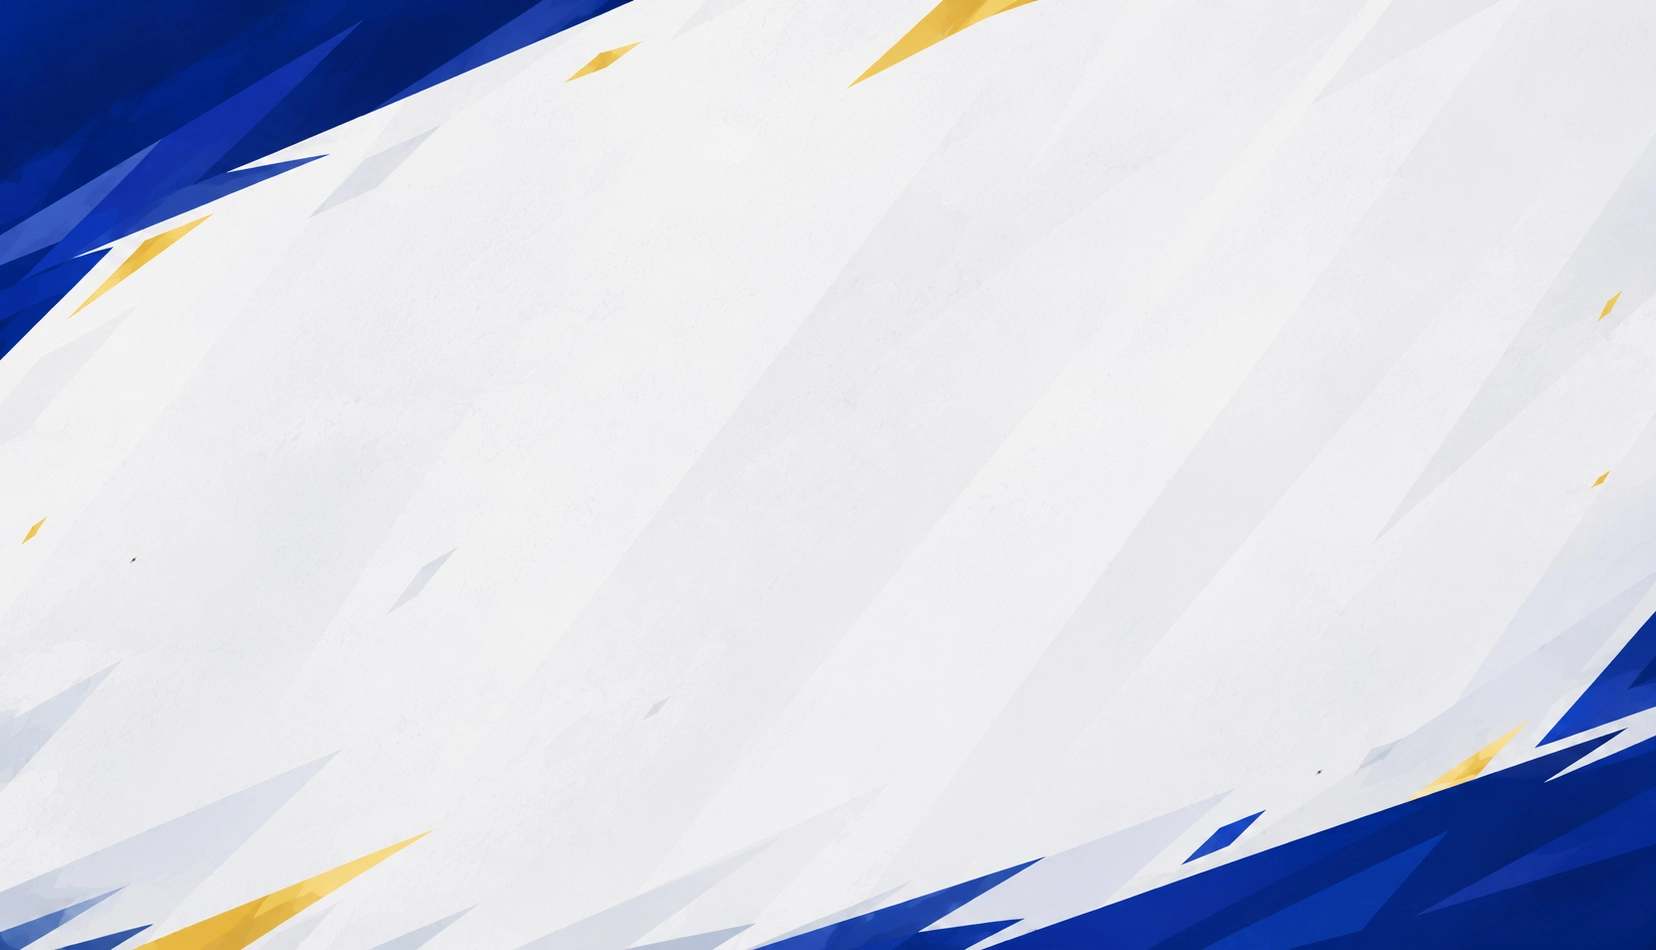
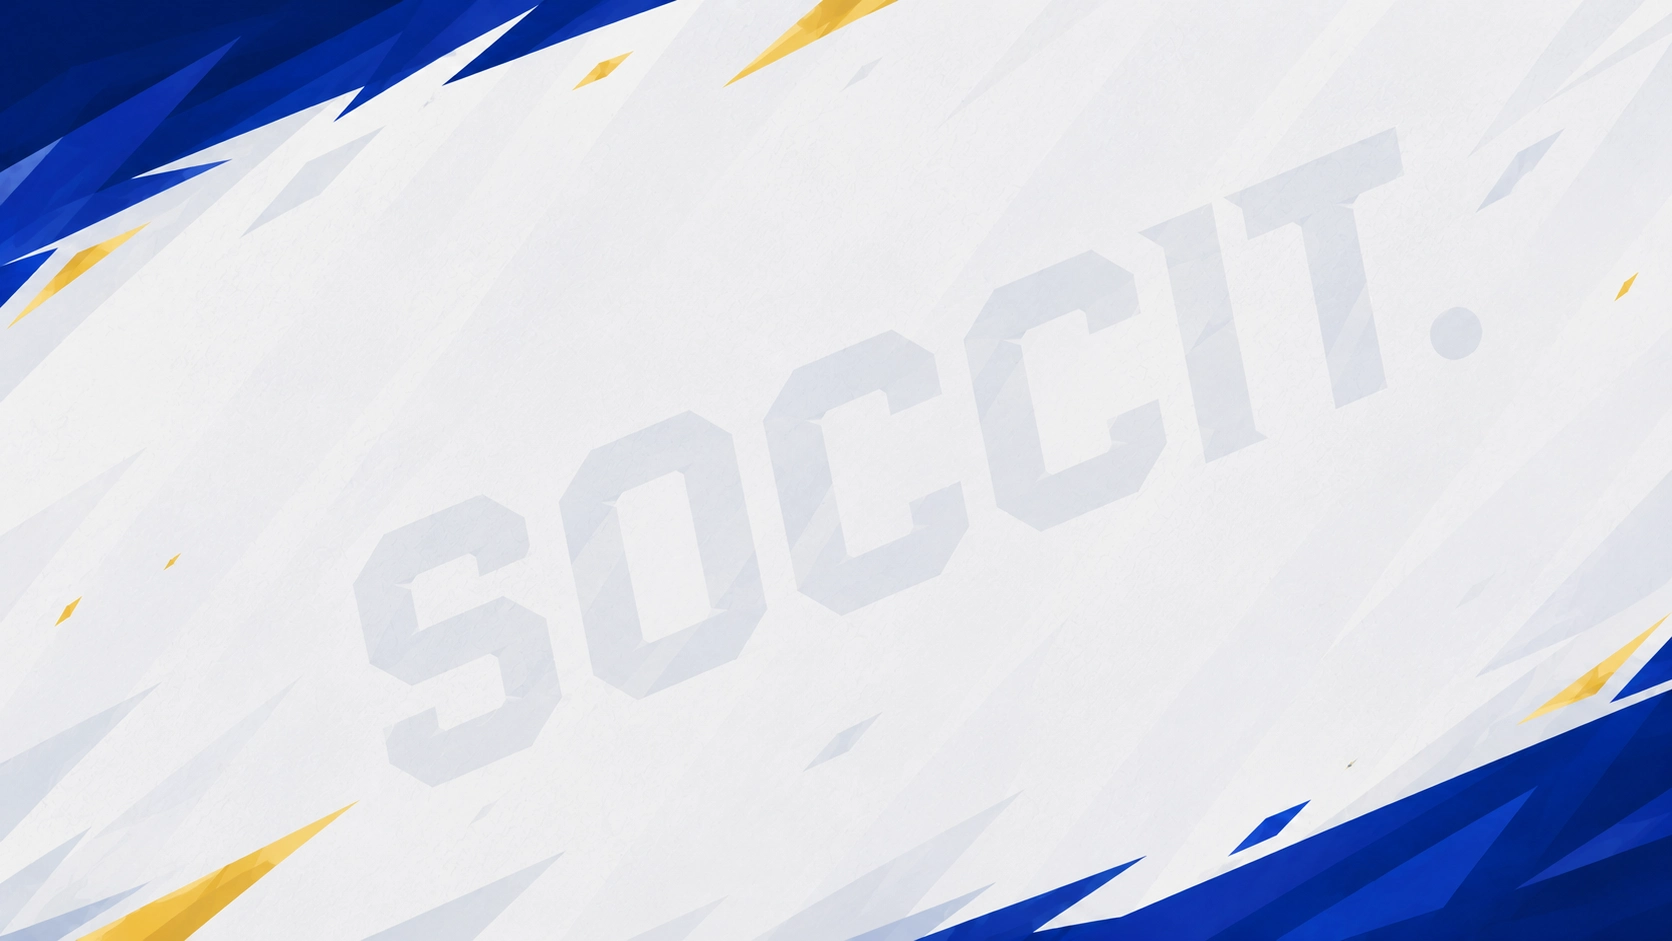
sounds

diff --git a/app/_lib/sound.ts b/app/_lib/sound.ts
@@ -1,0 +1,132 @@
+// Web Audio sound-effects manager.
+//
+// Uses predecoded AudioBuffers for zero-latency playback (no <audio> tag
+// seeking/glitches) and lazy-inits the AudioContext on the first user gesture
+// so it complies with browser autoplay policies.
+//
+// Sound files live at /public/sounds/<name>.wav. Replace the placeholder
+// silent files with real recordings — same path/filename, no code change.
+//
+// Recommended source format:
+//   WAV (PCM, 16-bit, 44.1 kHz, mono)
+//   - hover:  50–120 ms, soft attack, quick fade-out (no click/pop at edges)
+//   - click:  80–180 ms, punchy attack, short decay
+//   Keep peaks around -3 dBFS to avoid clipping when layered.
+//   WAV gives instant playback via decodeAudioData + AudioBufferSourceNode.
+//   MP3/OGG also work but add decode cost and tiny first-play latency.
+
+type SoundName = "hover" | "click";
+
+const HOVER_COOLDOWN_MS = 70; // global min gap between hover sounds
+const HOVER_ELEMENT_MS = 500; // don't replay on the same element within this window
+
+class SoundManager {
+  private ctx: AudioContext | null = null;
+  private buffers: Partial<Record<SoundName, AudioBuffer>> = {};
+  private loaded = false;
+  private loading: Promise<void> | null = null;
+  private muted = false;
+
+  private lastHoverEl: WeakRef<Element> | null = null;
+  private lastHoverAt = 0;
+
+  constructor() {
+    if (typeof window !== "undefined") {
+      this.muted =
+        window.localStorage.getItem("soccit-sound-muted") === "1";
+    }
+  }
+
+  /** Lazily create the AudioContext. Must be called from a user gesture. */
+  private ensureContext(): AudioContext | null {
+    if (this.ctx) return this.ctx;
+    if (typeof window === "undefined") return null;
+    const Ctx =
+      window.AudioContext ||
+      (window as unknown as { webkitAudioContext?: typeof AudioContext })
+        .webkitAudioContext;
+    if (!Ctx) return null;
+    this.ctx = new Ctx();
+    return this.ctx;
+  }
+
+  /** Initialise on first gesture. Safe to call repeatedly. */
+  initOnGesture(): Promise<void> {
+    const ctx = this.ensureContext();
+    if (!ctx) return Promise.resolve();
+    if (ctx.state === "suspended") void ctx.resume();
+    if (this.loaded) return Promise.resolve();
+    if (this.loading) return this.loading;
+    this.loading = Promise.all([
+      this.load("hover"),
+      this.load("click"),
+    ]).then(() => {
+      this.loaded = true;
+      this.loading = null;
+    });
+    return this.loading;
+  }
+
+  private async load(name: SoundName) {
+    if (this.buffers[name]) return;
+    const ctx = this.ctx;
+    if (!ctx) return;
+    try {
+      const res = await fetch(`/sounds/${name}.wav`, {
+        cache: "force-cache",
+      });
+      if (!res.ok) return;
+      const arr = await res.arrayBuffer();
+      // decodeAudioData resolves with the buffer in modern browsers.
+      const buf = await ctx.decodeAudioData(arr);
+      this.buffers[name] = buf ?? undefined;
+    } catch {
+      // Placeholder missing or decode failed — stay silent.
+    }
+  }
+
+  isMuted() {
+    return this.muted;
+  }
+
+  setMuted(m: boolean) {
+    this.muted = m;
+    if (typeof window !== "undefined") {
+      window.localStorage.setItem("soccit-sound-muted", m ? "1" : "0");
+    }
+  }
+
+  /** Hover sound with global + per-element throttling. */
+  playHover(el?: Element | null) {
+    if (this.muted) return;
+    const now =
+      typeof performance !== "undefined" ? performance.now() : Date.now();
+    if (now - this.lastHoverAt < HOVER_COOLDOWN_MS) return;
+    const sameEl = el && this.lastHoverEl?.deref?.() === el;
+    if (sameEl && now - this.lastHoverAt < HOVER_ELEMENT_MS) return;
+    this.lastHoverAt = now;
+    if (el) this.lastHoverEl = new WeakRef(el);
+    this.play("hover", 0.22);
+  }
+
+  /** Click/tap sound. */
+  playClick() {
+    if (this.muted) return;
+    this.play("click", 0.45);
+  }
+
+  private play(name: SoundName, volume: number) {
+    const ctx = this.ctx;
+    const buf = this.buffers[name];
+    if (!ctx || !buf) return;
+    if (ctx.state === "suspended") void ctx.resume();
+    const gain = ctx.createGain();
+    gain.gain.value = volume;
+    const src = ctx.createBufferSource();
+    src.buffer = buf;
+    src.connect(gain).connect(ctx.destination);
+    src.start();
+  }
+}
+
+export const sound = new SoundManager();

diff --git a/app/_lib/use-sound-effects.ts b/app/_lib/use-sound-effects.ts
@@ -1,0 +1,78 @@
+"use client";
+
+import { useEffect } from "react";
+import { sound } from "./sound";
+
+// Elements that count as "interactive" for sound purposes. Matches:
+//  - semantic: button, link, role=button, tabindex
+//  - opt-in:   [data-sound] (explicit)
+//  - visual:   .cursor-pointer, .group-card (cards/buttons with hover styles)
+const INTERACTIVE_SELECTOR =
+  "button, a, [role='button'], [tabindex]:not([tabindex='-1']), [data-sound], .cursor-pointer, .group-card";
+
+function findInteractive(target: EventTarget | null): Element | null {
+  if (!(target instanceof Element)) return null;
+  return target.closest(INTERACTIVE_SELECTOR);
+}
+
+function isDisabledEl(el: Element): boolean {
+  if (el.hasAttribute("disabled")) return true;
+  if (el.getAttribute("aria-disabled") === "true") return true;
+  return false;
+}
+
+/**
+ * App-wide hover + click sound effects via event delegation.
+ *
+ * Mount once near the root (see Providers). No per-component wiring needed —
+ * any element matching INTERACTIVE_SELECTOR gets hover/click sounds.
+ *
+ * Respects the sound manager's mute flag and stays silent until the first
+ * user gesture (AudioContext autoplay policy).
+ */
+export function useSoundEffects() {
+  useEffect(() => {
+    let lastHoverEl: Element | null = null;
+    let lastHoverAt = 0;
+
+    const onPointerDown = () => {
+      // Browsers require a gesture before AudioContext can start.
+      void sound.initOnGesture();
+    };
+
+    const onMouseOver = (e: MouseEvent) => {
+      const interactive = findInteractive(e.target);
+      if (!interactive) return;
+      if (isDisabledEl(interactive)) return;
+      const now = performance.now();
+      // Per-element dedupe: don't replay while moving within the same card.
+      if (interactive === lastHoverEl && now - lastHoverAt < 500) return;
+      lastHoverEl = interactive;
+      lastHoverAt = now;
+      sound.playHover(interactive);
+    };
+
+    const onClick = (e: MouseEvent) => {
+      const interactive = findInteractive(e.target);
+      if (!interactive) return;
+      if (isDisabledEl(interactive)) return;
+      sound.playClick();
+    };
+
+    // pointerdown (capture) primes the AudioContext on the very first gesture.
+    document.addEventListener("pointerdown", onPointerDown, {
+      capture: true,
+    });
+    // mouseover bubbles — single delegated listener for all hovers.
+    document.addEventListener("mouseover", onMouseOver, { passive: true });
+    document.addEventListener("click", onClick, { passive: true });
+
+    return () => {
+      document.removeEventListener("pointerdown", onPointerDown, {
+        capture: true,
+      });
+      document.removeEventListener("mouseover", onMouseOver);
+      document.removeEventListener("click", onClick);
+    };
+  }, []);
+}

diff --git a/app/_components/providers.tsx b/app/_components/providers.tsx
@@ -13,6 +13,7 @@ import {
 } from "@solana/wallet-adapter-wallets";
 import { clusterApiUrl } from "@solana/web3.js";
 import "@solana/wallet-adapter-react-ui/styles.css";
+import { useSoundEffects } from "../_lib/use-sound-effects";
 
 type Theme = "light" | "dark";
 
@@ -51,6 +52,9 @@ export function Providers({ children }: { children: ReactNode }) {
   }, [theme, mounted]);
 
   const toggleTheme = () => setTheme((t) => (t === "light" ? "dark" : "light"));
+
+  // App-wide hover/click sound effects (delegated, no per-component wiring).
+  useSoundEffects();
 
   const network = WalletAdapterNetwork.Devnet;
   const endpoint = clusterApiUrl(network);